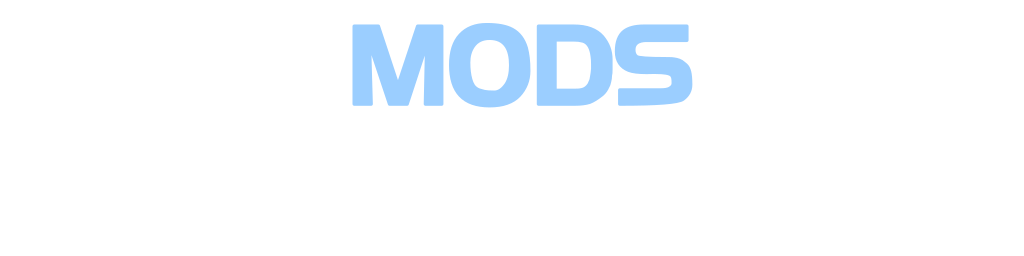
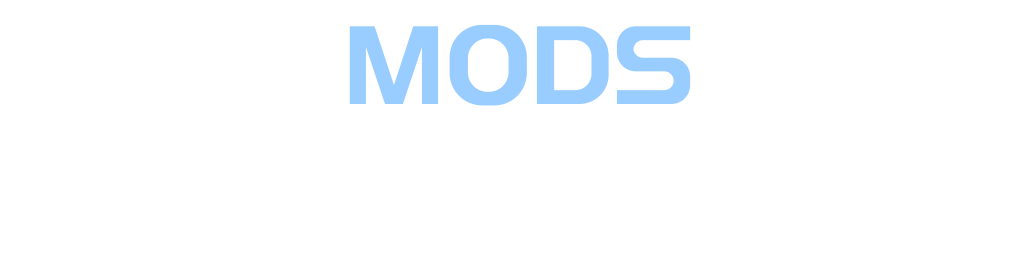
Draw the main menu's MODS item in the redraws' own letters, spaced and glowing as the other items are

diff --git a/tools/port_settings.py b/tools/port_settings.py
@@ -13,6 +13,8 @@ settings defaults" shows the defaults. Controls Setup binds the keyboard and
 mouse's controls, by the functions the PC version names for it.
 """
 
+import re
+import sys
 from pathlib import Path
 from xml.sax.saxutils import quoteattr
 
@@ -1538,11 +1540,15 @@ REPLACED_FOLDERS = [f"{MT}/server_settings"]
 # each turned on or off and moved up or down (menu_functions.c's "port mods"
 # functions)
 
-# the redraws' main menu items (svg/shell/main_menu/menu_*.svg): their text's
-# capitals' top and height, its colour dim (not chosen) and its glow chosen,
-# and where its middle is
-MENU_ITEM_TOP, MENU_ITEM_CAP, MENU_ITEM_MIDDLE = 6.57, 21.5 * 0.9037, 130.0
-TITLE_FONT_PATH = Path(__file__).resolve().parent.parent / "port/assets/fonts/OpenCE-Regular.ttf"
+# the redraws' main menu items (svg/shell/main_menu/menu_*.svg): their
+# letters' top and scale, and where their middle is
+MENU_ITEM_TOP, MENU_ITEM_SCALE, MENU_ITEM_MIDDLE = 6.57, 0.9037, 130.0
+# the space between two of the redraws' letters, in their units (their
+# capitals are 21.5 high), for the pairs the port's items have: no redraw has
+# these pairs, so each is the sum of a space after the first letter and one
+# before the second, fitted (least squares) to the 53 pairs the redraws' items
+# and headers have (D-I, of the main menu's Credits, gives D's right side)
+MENU_ITEM_SPACES = {"MO": 3.17, "OD": 2.8, "DS": 2.3}
 # the mods' status icons (port/assets/icons/lucide): a mod out of the order it
 # asks for, and one that cannot be played (another mod says it cannot be
 # played with it, or this build cannot play it): menu_functions.c's
@@ -1550,50 +1556,49 @@ TITLE_FONT_PATH = Path(__file__).resolve().parent.parent / "port/assets/fonts/Op
 MOD_STATUS_ICONS = [("triangle-alert", "#FFB020"), ("circle-x", "#FF4040")]
 
 
-def menu_item_frames(text: str) -> list:
-    """the frames (svg, width, height) of a main menu item of the port's:
-    its text set in OpenCE (Newtown respaced: port/assets/fonts) as the
-    redraws' items are, dim, then white with their blue glow"""
-    from fontTools.pens.boundsPen import BoundsPen
-    from fontTools.pens.svgPathPen import SVGPathPen
-    from fontTools.pens.transformPen import TransformPen
-    from fontTools.ttLib import TTFont
+def redraw_letters(redraws: Path) -> dict:
+    """the redraws' letters (their <path id="gA">s, one drawing of each
+    letter in every item and header), by letter"""
+    letters = {}
+    for svg in sorted(redraws.rglob("*.svg")):
+        if any(part.startswith("_") for part in svg.relative_to(redraws).parts):
+            continue
+        for letter, path in re.findall(r'<path id="g([A-Z])" d="([^"]+)"', svg.read_text()):
+            if letters.setdefault(letter, path) != path:
+                sys.exit(f"{svg}: the redraws draw {letter} two ways")
+    return letters
 
-    font = TTFont(str(TITLE_FONT_PATH))
-    glyphs = font.getGlyphSet()
-    cmap = font.getBestCmap()
-    kerning = font["kern"].kernTables[0].kernTable if "kern" in font else {}
-    cap = glyphs["H"]
-    pen = BoundsPen(glyphs)
-    cap.draw(pen)
-    scale = MENU_ITEM_CAP / (pen.bounds[3] - pen.bounds[1])
-    names = [cmap[ord(character)] for character in text]
-    widths = [font["hmtx"][name][0] for name in names]
-    advance = sum(widths) + sum(kerning.get((first, second), 0) for first, second in zip(names, names[1:]))
-    x = MENU_ITEM_MIDDLE / scale - advance / 2
-    baseline = MENU_ITEM_TOP + MENU_ITEM_CAP
-    defs, uses = {}, []
-    for index, name in enumerate(names):
-        if name not in defs and name != "space":
-            path = SVGPathPen(glyphs, lambda value: f"{value:.2f}".rstrip("0").rstrip("."))
-            glyphs[name].draw(TransformPen(path, (1, 0, 0, -1, 0, 0)))
-            defs[name] = path.getCommands()
-        if name != "space":
-            uses.append(f'<use href="#g{name}" transform="translate({x * scale:.2f},{baseline:.2f}) scale({scale:.5f})"/>')
-        x += widths[index] + (kerning.get((name, names[index + 1]), 0) if index + 1 < len(names) else 0)
-    paths = [f'    <path id="g{name}" d="{commands}"/>' for name, commands in sorted(defs.items())]
-    head = ['<svg xmlns="http://www.w3.org/2000/svg" width="256" height="64" viewBox="0 0 256 64">', "  <defs>", *paths]
-    # (as heavy as the redraws' letters: a thin edge of their colour)
-    edge = f'stroke-width="{0.9 / scale:.2f}" stroke-linejoin="round"'
+
+def menu_item_frames(text: str, redraws: Path) -> list:
+    """the frames (svg, width, height) of a main menu item of the port's: its
+    text in the redraws' own letters (redraw_letters), spaced, placed and
+    coloured as their items are, dim, then white with their blue glow"""
+    from fontTools.pens.boundsPen import BoundsPen
+    from fontTools.svgLib.path import parse_path
+
+    letters = redraw_letters(redraws)
+    widths = []
+    for letter in text:
+        pen = BoundsPen(None)
+        parse_path(letters[letter], pen)
+        widths.append(pen.bounds[2])
+    spaces = [MENU_ITEM_SPACES[first + second] for first, second in zip(text, text[1:])]
+    x = MENU_ITEM_MIDDLE - (sum(widths) + sum(spaces)) * MENU_ITEM_SCALE / 2
+    uses = []
+    for index, letter in enumerate(text):
+        uses.append(f'<use href="#g{letter}" transform="translate({x:.2f},{MENU_ITEM_TOP}) scale({MENU_ITEM_SCALE})"/>')
+        x += (widths[index] + (spaces[index] if index < len(spaces) else 0)) * MENU_ITEM_SCALE
+    paths = [f'    <path id="g{letter}" d="{letters[letter]}"/>' for letter in sorted(set(text))]
+    head = ['<svg xmlns="http://www.w3.org/2000/svg" xmlns:xlink="http://www.w3.org/1999/xlink" width="256" '
+            'height="64" viewBox="0 0 256 64">', "  <defs>", *paths]
     dim = [*head, "  </defs>", f'  <!-- "{text}" (normal state: dim blue) -->',
-           f'  <g id="text" fill="#2895ff" stroke="#2895ff" opacity="0.467" {edge}>',
-           *[f"    {use}" for use in uses], "  </g>", "</svg>", ""]
+           '  <g id="text" fill="#2895ff" fill-opacity="0.467">', *[f"    {use}" for use in uses], "  </g>", "</svg>", ""]
     glow = [*head, '    <filter id="glow" filterUnits="userSpaceOnUse" x="0" y="0" width="256" height="64">',
             '      <feGaussianBlur stdDeviation="2.19"/>', "    </filter>", "  </defs>",
             f'  <!-- "{text}" (highlighted: white with blue glow) -->',
-            f'  <g fill="#2895ff" stroke="#2895ff" stroke-width="{6.3 / scale:.2f}" stroke-linejoin="round" '
-            'opacity="0.650" filter="url(#glow)">', *[f"    {use}" for use in uses], "  </g>",
-            f'  <g id="text" fill="#fff" stroke="#fff" {edge}>', *[f"    {use}" for use in uses], "  </g>", "</svg>", ""]
+            '  <g fill="#2895ff" stroke="#2895ff" stroke-width="6.3" stroke-linejoin="round" opacity="0.650" '
+            'filter="url(#glow)">', *[f"    {use}" for use in uses], "  </g>",
+            '  <g id="text" fill="#fff">', *[f"    {use}" for use in uses], "  </g>", "</svg>", ""]
     return [("\n".join(dim), 256, 64), ("\n".join(glow), 256, 64)]
 
 

diff --git a/tools/ce_menus.py b/tools/ce_menus.py
@@ -643,9 +643,9 @@ def main() -> None:
         ((ROOT / "port/assets/icons/lucide" / f"{icon}.svg").read_text().replace('stroke="currentColor"',
                                                                                  'stroke="#FFFFFF"'), 24, 24)
         for icon in ("volume-2", "volume-x")]))
-    # (the main menu's MODS, in OpenCE as the redraws' items are, and the mods'
+    # (the main menu's MODS, in the redraws' own letters, and the mods'
     # status icons: Lucide's, port/assets/icons/lucide)
-    lines.append(art.port_picture("main_menu/menu_mods", port_settings.menu_item_frames("MODS")))
+    lines.append(art.port_picture("main_menu/menu_mods", port_settings.menu_item_frames("MODS", art.redraws)))
     lines.append(art.port_picture("mods/status", port_settings.mod_status_frames(ROOT / "port/assets/icons/lucide")))
     lines.append(art.port_picture("mods/status_small",
                                   port_settings.mod_status_frames(ROOT / "port/assets/icons/lucide", 16)))
